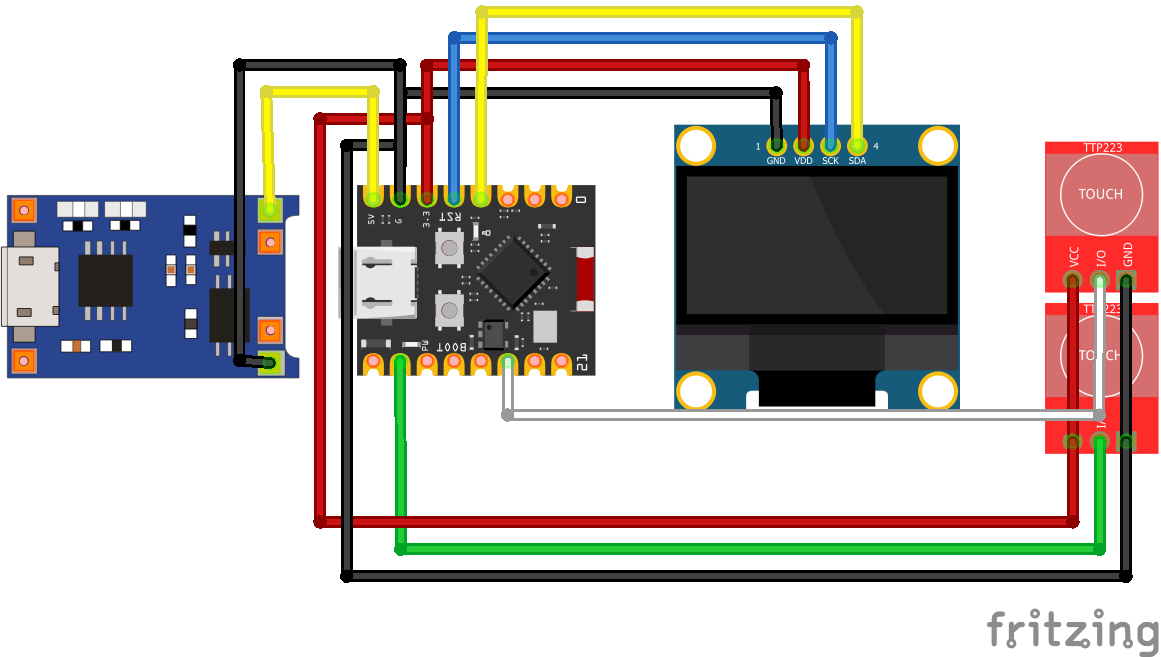
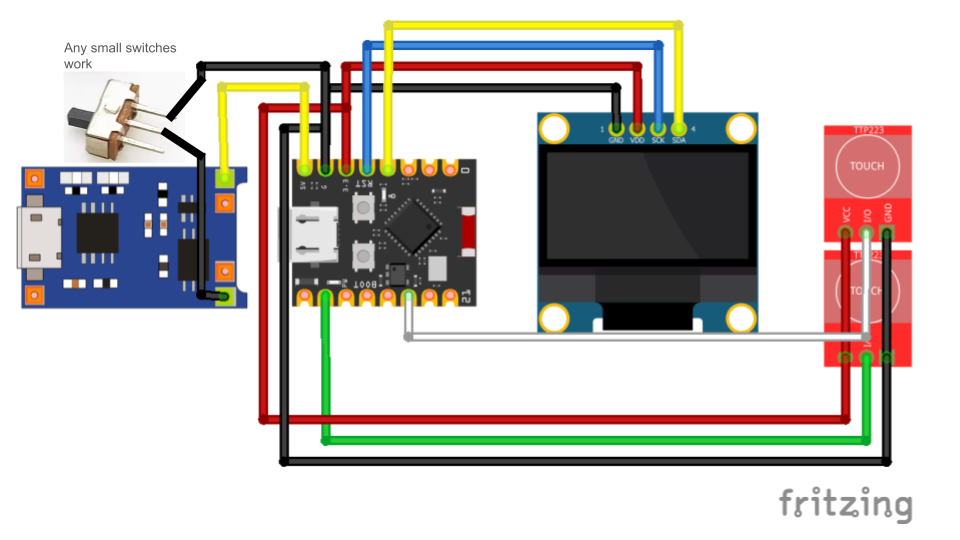
Updated docs

diff --git a/index.html b/index.html
@@ -215,7 +215,7 @@
                         <img src="assets/img/refresh.svg" id="resetTextColor" title="Reset to default" style="width: 20px; cursor: pointer; opacity: 0.7;" onmouseover="this.style.opacity=1" onmouseout="this.style.opacity=0.7">
                     </div>
                 </label>
-                <p style="font-size: 0.85em; color: #aaa; margin-bottom: 15px;">Change the text color on the physical device (Advanced Build only).</p>
+                <p style="font-size: 0.85em; color: #aaa; margin-bottom: 15px;">Change the text color on the physical device (Recommended Build only).</p>
                 
                 <label style="display: flex; justify-content: space-between; align-items: center; margin-bottom: 10px;">
                     <div style="display: flex; align-items: center; gap: 10px;">

diff --git a/README.md b/README.md
@@ -16,16 +16,16 @@ If you want to use the beeper, <a href="https://quantdrent.github.io/Rien-Prescr
 ## Hardware Versions & Required Materials
 
 > There are three different hardware setups in this project:
-> * **The nRF52840 (Advanced Build).** It has a TFT color screen, custom fonts, and deep sleep mode. This is the recommended version you see in the GIF.
-> * **The ESP32-C3 (Standard Build).** This uses the exact same TFT color screen as the advanced build, but runs on a much cheaper ESP32-C3 SuperMini. It lacks deep sleep but is a great budget alternative.
+> * **The nRF52840 (Recommended Build).** It has a TFT color screen, custom fonts, and deep sleep mode. This is the recommended version you see in the GIF.
+> * **The ESP32-C3 (Alternative Build).** This uses the exact same TFT color screen as the recommended build, but runs on a much cheaper ESP32-C3 SuperMini. It lacks deep sleep but is a great budget alternative.
 > * **The ESP32-C3 (Legacy OLED Build).** An older, archived build that uses a basic blue 1.3" OLED screen. You can find its firmware in `firmware/ESP32/PrescriptBeeper_Legacy_OLED`.
 > 
 > **DO NOT mix the parts (if you dont know what youre doing).** The firmwares and 3D printed cases are **NOT** interchangeable between the different screens and boards. Make sure you pick the right firmware and 3D model for your parts.
 
 <details>
-<summary><strong>Advanced Build (nRF52840)</strong></summary>
+<summary><strong>Recommended Build (nRF52840)</strong></summary>
 
-This is the recommended "Advanced" version with a tft color screen, custom proportional fonts, and deep sleep support.
+This is the recommended version with a tft color screen, custom proportional fonts, and deep sleep support.
 
 > **Note:** Don't forget to solder the boost pads on the SuperMini board if your battery is more than 500mAh.
 >
@@ -43,7 +43,7 @@ This is the recommended "Advanced" version with a tft color screen, custom propo
 - `Adafruit LittleFS`
 - `Adafruit ST7735 and ST7789 Library`
 **3D Printing (Case):**
-- **For the Advanced Build (nRF52840 Supermini):** Use `models/Case.3mf` or `models/Case.stl`
+- **For the Recommended Build (nRF52840 Supermini):** Use `models/Case.3mf` or `models/Case.stl`
 - *(Tinkercad remix link available in `models/tinkercadlink.txt`. I recommend using `.3mf` files. Best results were on a BambuLab A1 with 0.4 nozzle and SUNLU PLA+ 2.0)*
 
 **Wiring Diagram:**
@@ -80,7 +80,7 @@ The SuperMini nRF52840 boards have nice!nano v2 compatibility, meaning the Adafr
 </details>
 
 <details>
-<summary><strong>Standard Build (ESP32-C3 TFT)</strong></summary>
+<summary><strong>Alternative Build (ESP32-C3 TFT)</strong></summary>
 
 This version is kept here because the ESP32 parts are generally much cheaper and easier to source than the nRF52840, while still allowing you to use the premium TFT color screen.
 
@@ -95,7 +95,7 @@ instruction for this version have not been completed. this was a port made by so
 - 2.25 Inch TFT LCD Module 76x284 ST7789 [[AliExpress](https://www.aliexpress.com/item/1005011855033572.html)]
 - 2x Touch capacitive switches TTP-223 [[AliExpress](https://www.aliexpress.com/item/32964219843.html)]
 - TP4056 Type-C Charger [[AliExpress](https://www.aliexpress.com/item/1005006043031985.html)]
-- Any small slide switch that fits inside the case
+- Any small slide switch that fits inside the case [[AliExpress](https://www.aliexpress.com/item/1005011902173007.html)]
 - Wires (AWG 26 recommended)
 
 **Required Arduino Libraries:**
@@ -104,7 +104,7 @@ instruction for this version have not been completed. this was a port made by so
 - `Adafruit ST7735 and ST7789 Library`
 
 **3D Printing (Case):**
-- **For the Standard Build (ESP32-C3 Supermini):** Use `models/Case.3mf` or `models/Case.stl`
+- **For the Alternative Build (ESP32-C3 Supermini):** Use `models/Case.3mf` or `models/Case.stl`
 - *(Tinkercad remix link available in `models/tinkercadlink.txt`. I recommend using `.3mf` files. Best results were on a BambuLab A1 with 0.4 nozzle and SUNLU PLA+ 2.0)*
 
 **Wiring Table:**
@@ -134,6 +134,7 @@ This is the archived legacy version using a monochrome OLED. You can find its fi
 - 2x Touch capacitive switches TTP-223
 - TP4056 Type-C Charger
 - Wires (AWG 26 recommended)
+- Any small slide switch that fits inside the case [[AliExpress](https://www.aliexpress.com/item/1005011902173007.html)]
 
 **Required Arduino Libraries:**
 - `Adafruit GFX Library`